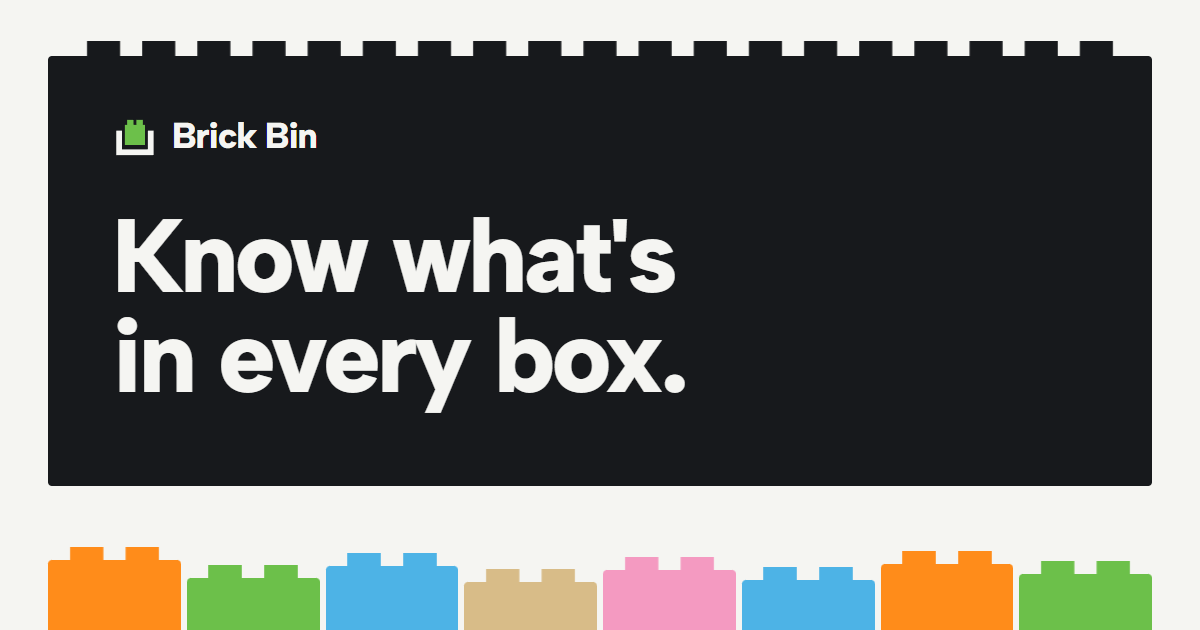
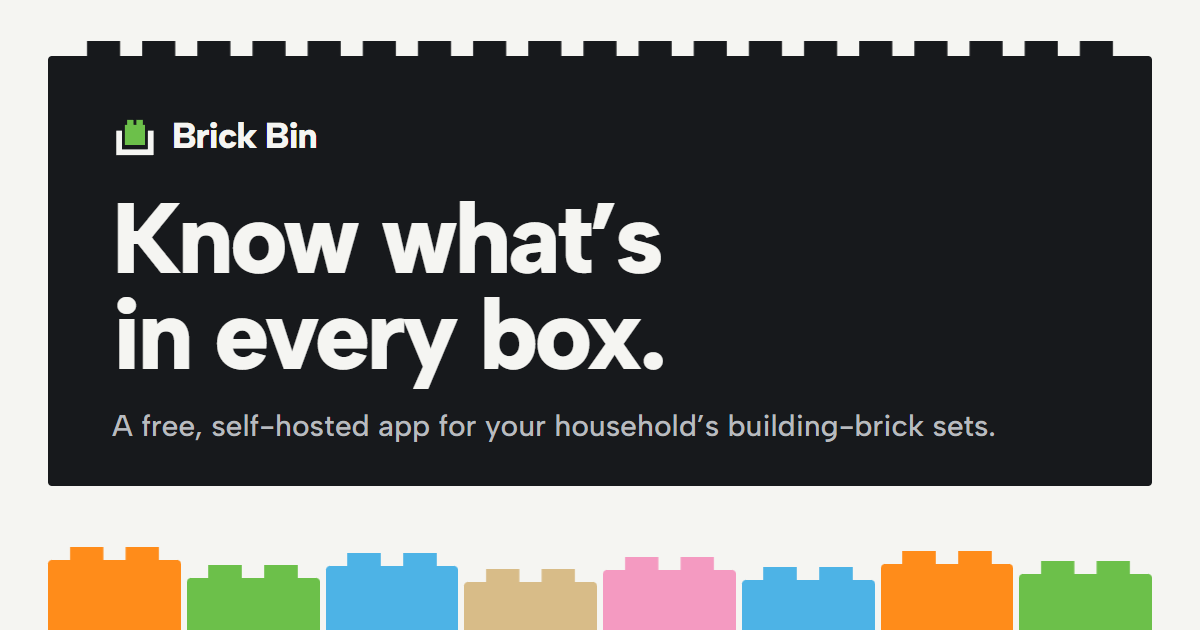
fix(site): add the product line to the social card and fix per-page social tags
Card copy and layout from the designer's review. Every page now sets its
own og:title, og:url, og:image and twitter tags: Next.js replaced the
root's openGraph on tutorials (dropping the image) and docs pages showed
the home title.

Changed region(s): [[0.0925, 0.3016, 0.8325, 0.6937]]

diff --git a/site/src/lib/metadata.ts b/site/src/lib/metadata.ts
@@ -1,0 +1,43 @@
+import type { Metadata } from 'next';
+
+import { DESCRIPTION, SITE_NAME, TAGLINE } from './site';
+
+export const HOME_TITLE = `${SITE_NAME}: ${TAGLINE.charAt(0).toLowerCase()}${TAGLINE.slice(1)}`;
+
+const OG_IMAGE = {
+  url: '/og.png',
+  width: 1200,
+  height: 630,
+  alt: 'Brick Bin: know what’s in every box. A row of colored bricks.',
+};
+
+/**
+ * A page's title, description, canonical address and social cards. Next.js replaces a parent's
+ * openGraph and twitter objects instead of merging them, so every page sets all of it here.
+ * `title` is the page's own part ("Setup · Docs"); the root layout adds " · Brick Bin".
+ */
+export function pageMetadata({
+  title,
+  description = DESCRIPTION,
+  path,
+}: {
+  title?: string;
+  description?: string;
+  path: string;
+}): Metadata {
+  const full = title ? `${title} · ${SITE_NAME}` : HOME_TITLE;
+  return {
+    ...(title ? { title } : {}),
+    description,
+    alternates: { canonical: path },
+    openGraph: {
+      type: 'website',
+      siteName: SITE_NAME,
+      title: full,
+      description,
+      url: path,
+      images: [OG_IMAGE],
+    },
+    twitter: { card: 'summary_large_image', title: full, description, images: [OG_IMAGE] },
+  };
+}

diff --git a/site/src/app/layout.tsx b/site/src/app/layout.tsx
@@ -13,28 +13,16 @@ import type { Metadata, Viewport } from 'next';
 import { SiteFooter } from '@/components/SiteFooter';
 import { SiteHeader } from '@/components/SiteHeader';
 import { albertSans, jetbrainsMono } from '@/fonts';
-import { DESCRIPTION, SITE_NAME, SITE_URL, TAGLINE } from '@/lib/site';
+import { HOME_TITLE, pageMetadata } from '@/lib/metadata';
+import { SITE_NAME, SITE_URL } from '@/lib/site';
 import { NO_JS_SCRIPT, THEME_STORAGE_KEY } from '@/lib/theme';
 
 import { Providers } from './Providers';
 
-const DEFAULT_TITLE = `${SITE_NAME}: ${TAGLINE.charAt(0).toLowerCase()}${TAGLINE.slice(1)}`;
-
 export const metadata: Metadata = {
   metadataBase: new URL(SITE_URL),
-  title: { default: DEFAULT_TITLE, template: `%s · ${SITE_NAME}` },
-  description: DESCRIPTION,
-  openGraph: {
-    type: 'website',
-    siteName: SITE_NAME,
-    title: DEFAULT_TITLE,
-    description: DESCRIPTION,
-    url: '/',
-    images: [
-      { url: '/og.png', width: 1200, height: 630, alt: 'Brick Bin: know what’s in every box.' },
-    ],
-  },
-  twitter: { card: 'summary_large_image' },
+  title: { default: HOME_TITLE, template: `%s · ${SITE_NAME}` },
+  ...pageMetadata({ path: '/' }),
 };
 
 export const viewport: Viewport = {

diff --git a/site/src/app/tutorials/[slug]/page.tsx b/site/src/app/tutorials/[slug]/page.tsx
@@ -5,6 +5,7 @@ import { PageHead } from '@/components/PageHead';
 import { CatalogCredit, NextBrick, Pager } from '@/components/prose/Blocks';
 import { Parts, Steps } from '@/components/prose/Tutorial';
 import { TUTORIALS, tutorialBySlug, tutorialNumber } from '@/content/tutorials';
+import { pageMetadata } from '@/lib/metadata';
 import { ROUTES, tutorialHref } from '@/lib/site';
 
 /** Every tutorial uses these five headings, so "On this page" never changes (SPEC 7.3). */
@@ -26,12 +27,11 @@ type Props = { params: Promise<{ slug: string }> };
 
 export async function generateMetadata({ params }: Props): Promise<Metadata> {
   const t = tutorialBySlug((await params).slug)!;
-  return {
+  return pageMetadata({
     title: `${t.title} · Tutorials`,
     description: t.summary,
-    alternates: { canonical: tutorialHref(t.slug) },
-    openGraph: { title: `${t.title} · Tutorials · Brick Bin`, description: t.summary },
-  };
+    path: tutorialHref(t.slug),
+  });
 }
 
 export default async function TutorialPage({ params }: Props) {

diff --git a/site/src/app/tutorials/page.tsx b/site/src/app/tutorials/page.tsx
@@ -3,6 +3,7 @@ import Link from 'next/link';
 
 import { PageHead } from '@/components/PageHead';
 import { TUTORIAL_GROUPS, TUTORIALS, tutorialNumber } from '@/content/tutorials';
+import { pageMetadata } from '@/lib/metadata';
 import { ROUTES, tutorialHref } from '@/lib/site';
 import { countWord } from '@/lib/words';
 
@@ -10,11 +11,11 @@ import classes from './Tutorials.module.css';
 
 const COUNT = countWord(TUTORIALS.length);
 
-export const metadata: Metadata = {
+export const metadata: Metadata = pageMetadata({
   title: 'Tutorials',
   description: `${COUNT} walk-throughs for Brick Bin, from the first run to checking what the collection is worth.`,
-  alternates: { canonical: ROUTES.tutorials },
-};
+  path: ROUTES.tutorials,
+});
 
 export default function TutorialsIndex() {
   return (

diff --git a/site/src/app/docs/setup/page.tsx b/site/src/app/docs/setup/page.tsx
@@ -6,6 +6,7 @@ import { PageHead } from '@/components/PageHead';
 import { CodeBlock } from '@/components/prose/CodeBlock';
 import { NextBrick, Note } from '@/components/prose/Blocks';
 import { Shot } from '@/components/Shot';
+import { pageMetadata } from '@/lib/metadata';
 import {
   REBRICKABLE_URL,
   REPO_URL,
@@ -15,12 +16,12 @@ import {
   tutorialHref,
 } from '@/lib/site';
 
-export const metadata: Metadata = {
+export const metadata: Metadata = pageMetadata({
   title: 'Setup · Docs',
   description:
     'Install Brick Bin on your own server: a quick try-out on port 3000, or the recommended Proxmox, Docker and Tailscale route.',
-  alternates: { canonical: ROUTES.setup },
-};
+  path: ROUTES.setup,
+});
 
 const TOC = [
   { id: 'before', label: 'Before you start' },

diff --git a/site/src/app/docs/hosting/page.tsx b/site/src/app/docs/hosting/page.tsx
@@ -5,14 +5,15 @@ import { DocsShell } from '@/components/docs/DocsShell';
 import { PageHead } from '@/components/PageHead';
 import { CodeBlock } from '@/components/prose/CodeBlock';
 import { CatalogCredit, NextBrick, Note, Pager, StackTable } from '@/components/prose/Blocks';
+import { pageMetadata } from '@/lib/metadata';
 import { ROUTES, TAILSCALE_URL, configHref, tutorialHref } from '@/lib/site';
 
-export const metadata: Metadata = {
+export const metadata: Metadata = pageMetadata({
   title: 'Hosting · Docs',
   description:
     'What Brick Bin runs, how much disk it wants, how to back it up and restore it, and when it goes online.',
-  alternates: { canonical: ROUTES.hosting },
-};
+  path: ROUTES.hosting,
+});
 
 const TOC = [
   { id: 'runs', label: 'What runs' },

diff --git a/site/src/app/faq/page.tsx b/site/src/app/faq/page.tsx
@@ -3,16 +3,17 @@ import type { Metadata } from 'next';
 import { Button } from '@/components/Button';
 import { PageHead } from '@/components/PageHead';
 import { FAQ } from '@/content/faq';
+import { pageMetadata } from '@/lib/metadata';
 import { ISSUES_URL, ROUTES } from '@/lib/site';
 
 import classes from './Faq.module.css';
 
-export const metadata: Metadata = {
+export const metadata: Metadata = pageMetadata({
   title: 'FAQ',
   description:
     'Short, honest answers about Brick Bin: brands, internet access, the catalog, kids, Tailscale, backups, loose bricks and cost.',
-  alternates: { canonical: ROUTES.faq },
-};
+  path: ROUTES.faq,
+});
 
 /** Every answer is open. No accordion (SPEC 6.23). */
 export default function FaqPage() {

diff --git a/site/src/app/page.tsx b/site/src/app/page.tsx
@@ -5,12 +5,13 @@ import { Button } from '@/components/Button';
 import { BuildPile } from '@/components/landing/BuildPile';
 import { Shot } from '@/components/Shot';
 import { TUTORIALS } from '@/content/tutorials';
+import { pageMetadata } from '@/lib/metadata';
 import { REBRICKABLE_URL, REPO_URL, ROUTES } from '@/lib/site';
 import { countWord } from '@/lib/words';
 
 import classes from './Landing.module.css';
 
-export const metadata: Metadata = { alternates: { canonical: ROUTES.home } };
+export const metadata: Metadata = pageMetadata({ path: ROUTES.home });
 
 const FEATURES: { title: string; chips: React.ReactNode; body: React.ReactNode }[] = [
   {
